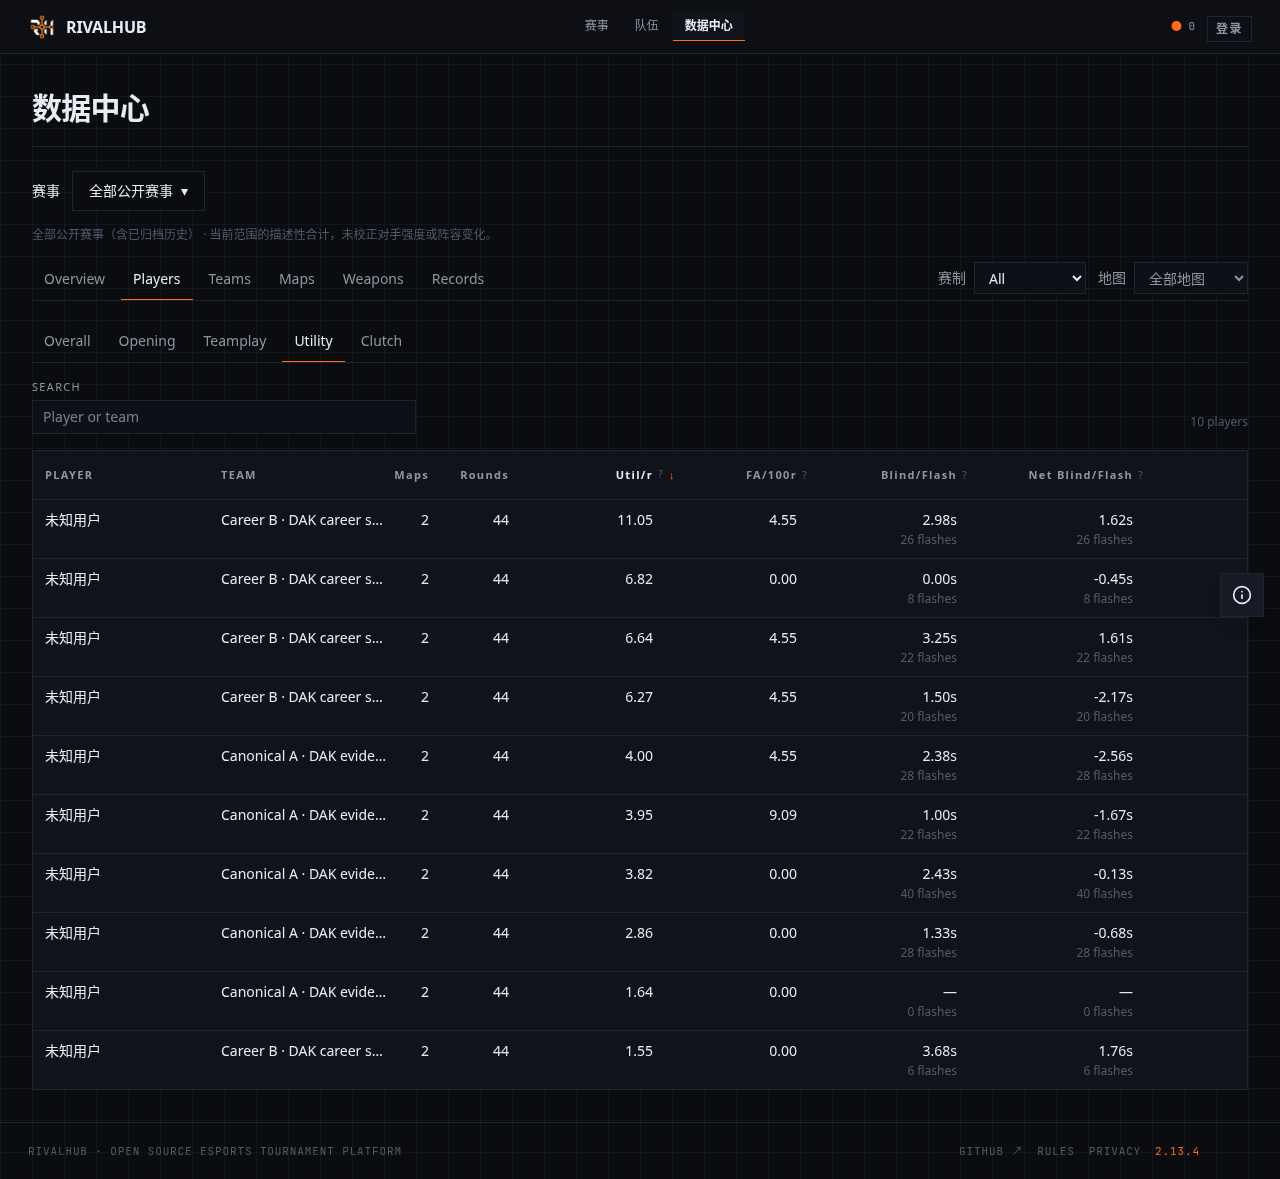
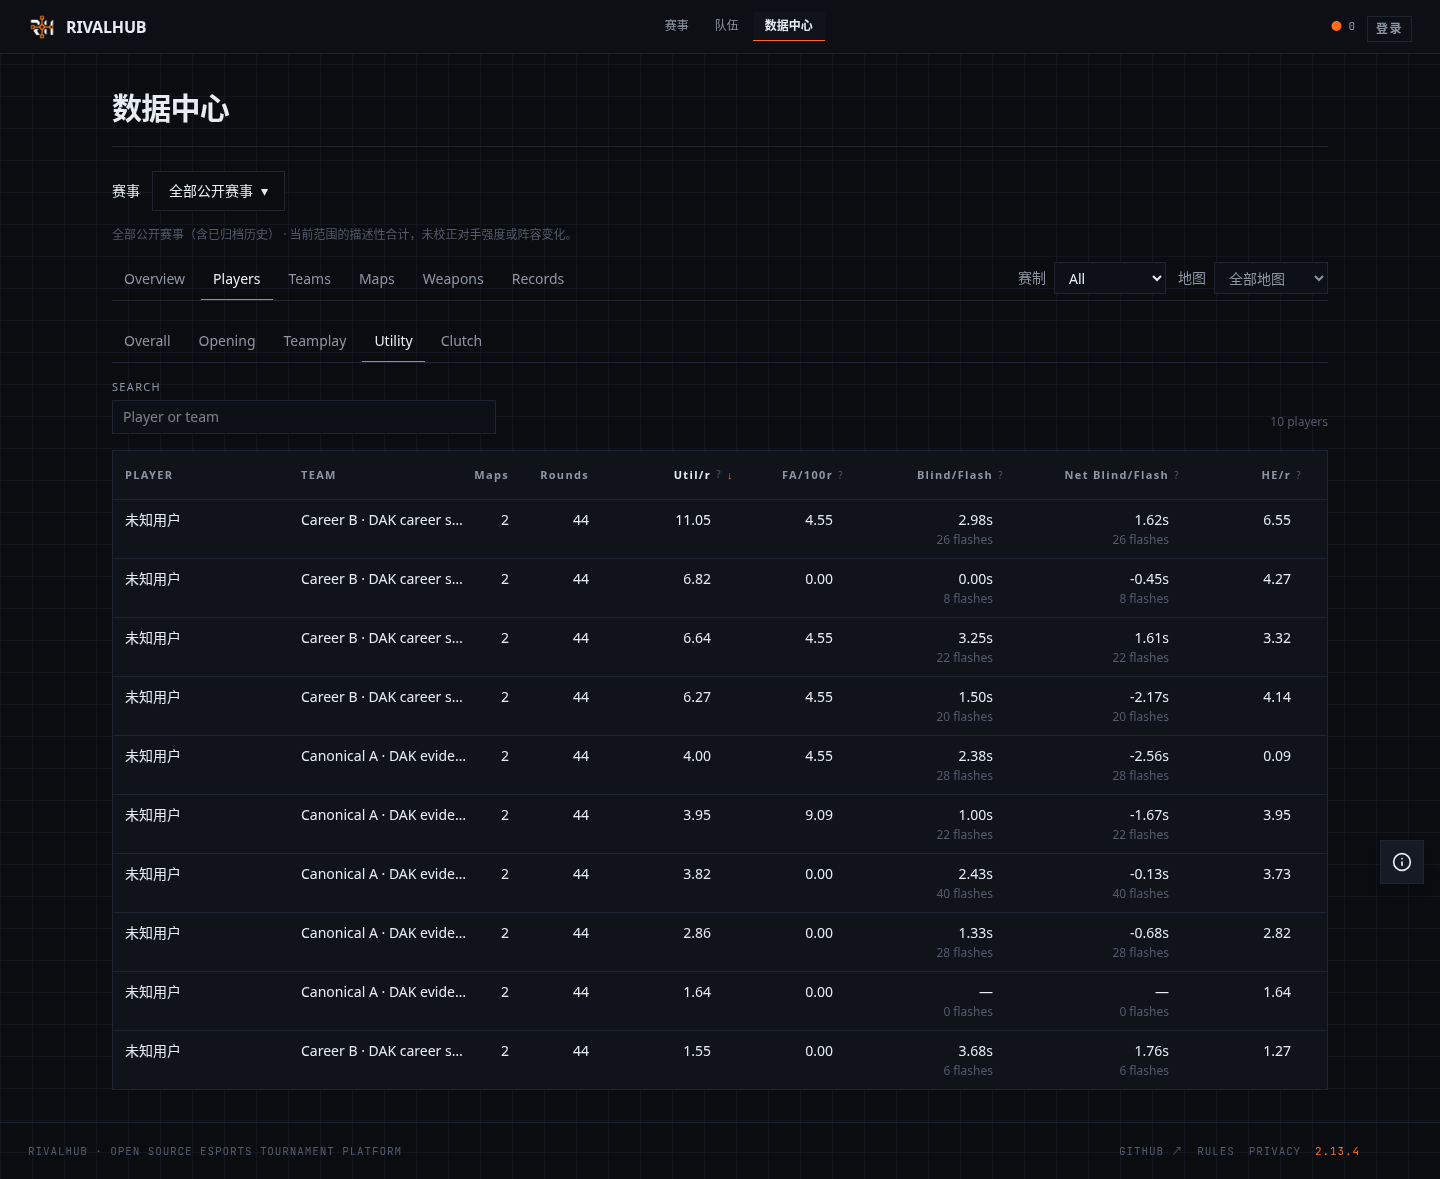
fix(stats): preserve scope transitions and observable insight precision

diff --git a/src/components/stats/players/PlayersExplorer.tsx b/src/components/stats/players/PlayersExplorer.tsx
@@ -50,8 +50,8 @@ function DAKColumns(family: Exclude<Family, "overall">, teamNames: ReadonlyMap<s
   };
   const identity: StatsDataColumn<DAKPlayer>[] = [
     { key: "player", label: "Player", identity: true, render: (row) => playerLink(row.player.entityKey, row.player.displayName) },
-    { key: "team", label: "Team", className: "hidden w-48 sm:table-cell", render: (row) => <span className="block truncate" title={playerTeam(row, teamNames)}>{playerTeam(row, teamNames)}</span> },
-    { key: "maps", label: "Maps", numeric: true, className: "hidden w-16 sm:table-cell", sortable: true, sortValue: (row) => row.mapCount, render: (row) => row.mapCount },
+    { key: "team", label: "Team", className: "hidden w-48 xl:table-cell", render: (row) => <span className="block truncate" title={playerTeam(row, teamNames)}>{playerTeam(row, teamNames)}</span> },
+    { key: "maps", label: "Maps", numeric: true, className: "hidden w-16 xl:table-cell", sortable: true, sortValue: (row) => row.mapCount, render: (row) => row.mapCount },
     { key: "rounds", label: "Rounds", numeric: true, className: "w-20", sortable: true, sortValue: rounds, render: rounds },
   ];
 
@@ -146,7 +146,7 @@ export function PlayersExplorer({ data, query, seasonSlug }: { data: TournamentS
         columns={DAKColumns(family, teamNames)}
         rowKey={(row, index) => `${row.player.entityKey}:detail:${index}`}
         initialSortKey={family === "opening" ? "win" : family === "teamplay" ? "kast" : family === "utility" ? "util" : "clutch"}
-        tableClassName="min-w-[1280px] table-fixed"
+        tableClassName="min-w-[960px] table-fixed"
         emptyLabel="该范围暂无详细统计"
       />
     );

diff --git a/src/components/stats/StatsEventSelector.test.tsx b/src/components/stats/StatsEventSelector.test.tsx
@@ -1,0 +1,24 @@
+import React from "react";
+import { render, screen } from "@testing-library/react";
+import userEvent from "@testing-library/user-event";
+import { expect, it, vi } from "vitest";
+import { parseStatsQuery } from "@/lib/stats/view-state";
+import { StatsEventSelector } from "./StatsEventSelector";
+const router = vi.hoisted(() => ({ push: vi.fn() }));
+vi.mock("next/navigation", () => ({ useRouter: () => router }));
+const events = [{ slug: "first", name: "第一届", status: "playing", maps: ["de_ancient"] },
+  { slug: "next", name: "下一届", status: "archived", maps: ["de_ancient"] }];
+it("clears map detail and stage but preserves its compatible map scope on event change", async () => {
+  const user = userEvent.setup();
+  render(<StatsEventSelector events={events} value="first" query={parseStatsQuery({ tab: "maps", map: "de_ancient", stage: "swiss", format: "bo3" }, ["swiss"])} />);
+  await user.click(screen.getByRole("button", { name: "选择赛事" }));
+  await user.click(await screen.findByRole("option", { name: /下一届/ }));
+  expect(router.push).toHaveBeenLastCalledWith("/stats?tab=maps&format=bo3&mapFilter=de_ancient&event=next");
+});
+it("resets bounded tie pagination when changing event", async () => {
+  const user = userEvent.setup();
+  render(<StatsEventSelector events={events} value="first" query={{ ...parseStatsQuery({ tab: "records" }, []), recordPage: 3 }} />);
+  await user.click(screen.getByRole("button", { name: "选择赛事" }));
+  await user.click(await screen.findByRole("option", { name: /下一届/ }));
+  expect(router.push).toHaveBeenLastCalledWith("/stats?tab=records&event=next");
+});

diff --git a/src/components/stats/StatsEventSelector.tsx b/src/components/stats/StatsEventSelector.tsx
@@ -3,10 +3,12 @@ import React from "react";
 import { EventSelector, type EventOption } from "@/components/layout/EventSelector";
 import { statsHref, type StatsQuery } from "@/lib/stats/view-state";
 export function StatsEventSelector({ events, value, query }: { events: EventOption[]; value: string; query: StatsQuery }) {
-  const clean = { ...query, stage: "", teamFilter: "", mapFilter: "", map: "", player: "", team: "", mapsView: "pool" as const };
+  const clean = { ...query, stage: "", teamFilter: "", mapFilter: "", map: "", player: "", team: "", mapsView: "pool" as const, recordPage: 1 };
+  const mapScope = query.map || query.mapFilter;
   const forEvent = (slug: string) => {
+    if (slug === value) return statsHref(slug, query);
     const maps = slug ? events.find((e) => e.slug === slug)?.maps ?? [] : events.flatMap((e) => e.maps ?? []);
-    return statsHref(slug, { ...clean, mapFilter: maps.includes(query.mapFilter) ? query.mapFilter : "" });
+    return statsHref(slug, { ...clean, mapFilter: maps.includes(mapScope) ? mapScope : "" });
   };
   return <EventSelector events={events} value={value} allHref={forEvent("")} hrefFor={forEvent} />;
 }

diff --git a/src/lib/stats/platform-query.ts b/src/lib/stats/platform-query.ts
@@ -46,7 +46,7 @@ export async function getPlatformStatsPage(raw: StatsSearch) {
   if ((raw.map && !/^de_[a-z0-9_]+$/.test(raw.map as string)) || (raw.map && query.tab !== "maps")
     || (query.map && !allowedMaps.includes(query.map)) || (query.mapFilter && !allowedMaps.includes(query.mapFilter))
     || (query.map && query.mapFilter && query.map !== query.mapFilter)) throw new AppError(ErrorCode.NOT_FOUND, "地图范围不可用。");
-  if (raw.teamFilter && (query.tab === "players" || query.tab === "weapons") && !query.teamFilter) throw new AppError(ErrorCode.NOT_FOUND, "统计范围不可用。");
+  if (raw.teamFilter && (!query.teamFilter || (query.tab !== "players" && query.tab !== "weapons"))) throw new AppError(ErrorCode.NOT_FOUND, "统计范围不可用。");
   if (query.teamFilter) {
     const [entry] = await db.select({ id: competitionEntries.id }).from(competitionEntries).where(and(
       eq(competitionEntries.id, query.teamFilter), eq(competitionEntries.competitionId, event!.id), eq(competitionEntries.registrationStatus, "approved"),

diff --git a/src/lib/stats/insights.test.ts b/src/lib/stats/insights.test.ts
@@ -80,6 +80,17 @@ describe("Insight rules v1", () => {
     rows[0]!.flashMaps = ["a", "b"].map((mapKey) => ({ mapKey, enemy: 5000, friendly: 2500, flashes: 50 }));
     expect(buildInsights(rows, "all")).toEqual([]);
   });
+  it("suppresses continuous differences that disappear at canonical display precision", () => {
+    const rows = flashPopulation();
+    rows.forEach((row, i) => {
+      const seconds = (3 + i * 1e-8) * 100;
+      row.metrics.blindPerFlash = amount(seconds);
+      row.metrics.netBlindPerFlash = amount(seconds);
+      row.metrics.friendlyBlindPerFlash = amount(0);
+      row.flashMaps = ["a", "b"].map((mapKey) => ({ mapKey, enemy: seconds / 2, friendly: 0, flashes: 50 }));
+    });
+    expect(buildInsights(rows, "all")).toEqual([]);
+  });
   it("deduplicates opening family, caps entities, and round-robins families deterministically", () => {
     const teams = population("team", "fourVFive", "fiveVFour");
     const players = population("player", "winAfterOpeningLoss", "openingDeathTradedRate");

diff --git a/src/lib/stats/insights.ts b/src/lib/stats/insights.ts
@@ -92,6 +92,9 @@ export function buildInsights(entities: readonly InsightEntity[], scope: string)
       if (!maps || maps.length < 2 || new Set(maps.map((m) => m.mapKey)).size !== maps.length) continue;
       if (maps.reduce((s, m) => s + m.flashes, 0) !== enemy.n) continue;
       const baselineE = baselines.get("blindPerFlash")!, baselineT = baselines.get("friendlyBlindPerFlash")!;
+      const baselineNet = baselines.get("netBlindPerFlash")!;
+      if (displayed(enemy.value!, enemy.metric, enemy.kind) <= displayed(baselineE.median, enemy.metric, enemy.kind)
+        || displayed(net.value!, net.metric, net.kind) <= displayed(baselineNet.median, net.metric, net.kind)) continue;
       const stable = maps.every((map) => {
         const f = enemy.n - map.flashes, e = enemy.x - map.enemy, t = friendly.x - map.friendly;
         return f > 0 && f >= baselineE.floor && e - t > 0 && e / f >= baselineE.median && t / f <= baselineT.median;

diff --git a/src/lib/stats/view-state.ts b/src/lib/stats/view-state.ts
@@ -59,7 +59,7 @@ export function statsHref(slug: string, current: StatsQuery, updates: StatsQuery
   const nextTab = updates.tab && Object.hasOwn(STATS_TABS, updates.tab) ? updates.tab : current.tab;
   let next: StatsQuery = nextTab === current.tab
     ? { ...current }
-    : { tab: nextTab, stage: current.stage, format: current.format, mapFilter: current.mapFilter, teamFilter: "", player: "", team: "", map: "", mapsView: "pool", preview: current.preview };
+    : { tab: nextTab, stage: current.stage, format: current.format, mapFilter: current.map || current.mapFilter, teamFilter: "", player: "", team: "", map: "", mapsView: "pool", preview: current.preview };
 
   if (Object.hasOwn(updates, "stage") && updates.stage !== current.stage) {
     next = { tab: nextTab, stage: updates.stage ?? "", format: current.format, mapFilter: "", teamFilter: "", player: "", team: "", map: "", mapsView: "pool" };

diff --git a/tests/e2e/flows/platform-stats.spec.ts b/tests/e2e/flows/platform-stats.spec.ts
@@ -20,6 +20,11 @@ test("数据中心统一入口、赛事选择、六视图和旧入口迁移", as
   await tabs.getByRole("link", { name: "Records", exact: true }).click();
   await expect(page.getByRole("heading", { name: "当前范围纪录" })).toBeVisible();
   await expect(page.getByText("暂无满足所需完整数据的纪录")).toHaveCount(6);
+  await page.goBack();
+  await expect(page).toHaveURL(`/stats?event=${scenario.slug}`);
+  await expect(tabs.getByRole("link", { name: "Overview", exact: true })).toHaveAttribute("aria-current", "page");
+  await page.goForward();
+  await expect(page.getByRole("heading", { name: "当前范围纪录" })).toBeVisible();
   await page.goto(`/${scenario.slug}/stats?tab=players&format=bo3`);
   await expect(page).toHaveURL(`/stats?tab=players&format=bo3&event=${scenario.slug}`);
   await expect(page.getByLabel("赛制")).toHaveValue("bo3");

diff --git a/tests/unit/lib/platform-stats-query.test.ts b/tests/unit/lib/platform-stats-query.test.ts
@@ -34,7 +34,7 @@ describe("platform scope and cache boundary", () => {
     expect(mocks.stats).toHaveBeenLastCalledWith(expect.objectContaining({ seasonIds: ["a"] }));
   });
   it.each([{ event: "draft" }, { event: ["current", "historic"] }, { stage: "swiss" }, { format: "bo7" },
-    { map: "garbage" }, { tab: "players", map: "de_oldmap" }, { mapFilter: "de_unknown" },
+    { event: "current", tab: "overview", teamFilter: "unknown-entry" }, { map: "garbage" }, { tab: "players", map: "de_oldmap" }, { mapFilter: "de_unknown" },
     { tab: "maps", map: "de_oldmap", mapFilter: "de_nuke" }])("rejects invalid scope instead of broadening %j", async (query) => {
     mocks.rows = [events, [{ name: "de_oldmap", seasonId: "b" }]];
     await expect(getPlatformStatsPage(query)).rejects.toMatchObject({ code: "NOT_FOUND" });

diff --git a/src/lib/stats/view-state.test.ts b/src/lib/stats/view-state.test.ts
@@ -65,3 +65,8 @@ describe("stats URL scope", () => {
     expect(href).toContain("mapFilter=de_ancient");
   });
 });
+
+ it("preserves a map detail scope visibly as mapFilter when switching tabs", () => {
+   const query = parseStatsQuery({ tab: "maps", map: "de_ancient" }, []);
+   expect(statsHref("major", query, { tab: "players" })).toBe("/stats?tab=players&mapFilter=de_ancient&event=major");
+ });

diff --git a/docs/archive/evidence/platform-stats-729/README.md b/docs/archive/evidence/platform-stats-729/README.md
@@ -40,7 +40,7 @@ fresh public IDs 在 remote cache 外读取并进入 key；共享 `PUBLIC_STATS_
 | advantage_disadvantage_inversion | 4v5 High；5v4=10/100，Ready且低分位；P差≥.35 | 次项2次机会/不同 coverage 抑制；命中后替代 simple 4v5 |
 | opening_death_resilience | 90/100；真实 sanitized fixture 为6/6，N=8、P=.9375、peer≈.1053 | 首死 n=0、低资格或显示精度不可区分抑制；文案说明队伍赢回合 |
 | opening_death_traded | 90/100；与 Win after FD 同族 | 同实体同族只保留1条，按P、L-peer、n、稳定 key 排序 |
-| flash_effectiveness | 2张有 F 的贡献图；E/F和Net/F高、T/F低；每图删除均稳定 | 单图、599/1尖峰、未知T、高队友致盲、删除后不达原floor/中位数抑制；全体T=0可用精确0分支 |
+| flash_effectiveness | 2张有 F 的贡献图；E/F和Net/F高、T/F低；每图删除均稳定 | 单图、599/1尖峰、未知T、高队友致盲、删除后不达原floor/中位数抑制；全体T=0可用精确0分支；E/Net与中位数在显示精度下不可区分时抑制 |
 | pistol_conversion_contrast | pistol90/100 High、conversion10/100 Ready且P差≥.35 | 次项缺资格/窄样本/不同覆盖抑制；保留独立分母 |
 | second_round_recovery | break90/100 High、pistol10/100 Ready且P差≥.35 | 回击机会缺失/低样本抑制；不声称故意输手枪有利 |
 
@@ -48,9 +48,9 @@ fresh public IDs 在 remote cache 外读取并进入 key；共享 `PUBLIC_STATS_
 
 ## 验证与性能
 
-定向统计、组件、profile 回归 33 文件 / 134 tests；后续长文本/合并选手筛选组件回归通过。应用、tests、scripts 类型及改动文件 lint、architecture 均通过。真实 PostgreSQL 17 回归通过，校验两届10个 canonical user、同名不合并、显式 teamId 合并、archived纳入/draft排除、DAK聚合一致性、新投影与repair/coverage、无 raw payload 读取。浮点累计比较保留12位有效数，避免不同SQL地图顺序的最后二进制位噪声。
+定向统计、组件、profile 回归 33 文件 / 134 tests；后续长文本/合并选手筛选组件回归通过；最终scope/显示精度/选择器增量回归5文件36项通过。应用、tests、scripts 类型及改动文件 lint、architecture 均通过。真实 PostgreSQL 17 回归通过，校验两届10个 canonical user、同名不合并、显式 teamId 合并、archived纳入/draft排除、DAK聚合一致性、新投影与repair/coverage、无 raw payload 读取。浮点累计比较保留12位有效数，避免不同SQL地图顺序的最后二进制位噪声。
 
-浏览器回归使用真实 Local Supabase，Chromium 和 mobile-chrome 均通过，重试为0：六视图、旧入口永久迁移的实际客户端导航、无循环、键盘选择、Escape焦点返回、未知范围不可用与320/390/1440px无页面横向溢出。另在 `next build` / `next start` 的本地生产模式检查含数据的两列、六类 Records、Overview及展开解释、0/2/20/100赛事与长名称。截图的数据是仓库 sanitized normal-map fixture 的隔离合成身份绑定，不是今日真实比赛或生产 holder；100赛事测试中98届是无比赛的列表负载样本。
+浏览器回归使用真实 Local Supabase，Chromium 和 mobile-chrome 均通过，重试为0：六视图、旧入口永久迁移的实际客户端导航、无循环、键盘选择、Escape焦点返回、未知范围不可用与320/390/1440px无页面横向溢出。追加地图详情→标签/换赛事范围保持、纪录分页重置及浏览器前进后退回归。1024px两列未增加表格横向滚动（960px表格内容与容器同宽），次要身份列沿用断点隐藏。另在 `next build` / `next start` 的本地生产模式检查含数据的两列、六类 Records、Overview及展开解释、0/2/20/100赛事与长名称。截图的数据是仓库 sanitized normal-map fixture 的隔离合成身份绑定，不是今日真实比赛或生产 holder；100赛事测试中98届是无比赛的列表负载样本。
 
 | 隔离两届 / 两图 / 十用户 | 逐届现有查询组合 baseline | 平台批量聚合 |
 | --- | ---: | ---: |
@@ -62,7 +62,18 @@ fresh public IDs 在 remote cache 外读取并进入 key；共享 `PUBLIC_STATS_
 
 baseline 是**同一fixture的逐届查询组合**，不是虚构一个旧版全站 API，也不是完整生产before/after。计数不随用户逐个增长；不据此推断大历史规模。真实托管查询计费、跨实例 remote-cache hit/miss、容量上限及失效流量未验收。
 
-[本地生产模式 HTTP 数据](local-http.json)：新进程、100公开赛事（98为空）、2图，Overview冷请求572.07ms /重复61.01ms；Players共享aggregate后47.50ms /重复43.08ms；Records35.88ms /40.02ms。HTML/RSC合并响应分别约233/337/145KB；没有把HTML bytes混作DTO或投影wire bytes。Node默认cache行为不等于托管remote-cache命中率。
+[本地生产模式 HTTP 数据](local-http.json)：新进程、100公开赛事（98为空）、2图。临时本地计数器覆盖 pg Client 的事务查询，仅记录计数和结果JSON估算字节，不记录SQL/参数/内容；未加入产品代码。包含Header/PPR与fresh membership查询。
+
+| HTTP视图 / 请求 | 查询数 | DB结果JSON估算bytes | HTML/RSC合并bytes | 耗时 |
+| --- | ---: | ---: | ---: | ---: |
+| Overview 冷进程 | 23 | 156829 | 233335 | 527.50ms |
+| Overview 重复 | 6 | 46245 | 233249 | 53.34ms |
+| Players 共享聚合已请求 / 重复 | 4 / 4 | 30830 / 30830 | 336603 / 336603 | 52.59 / 52.48ms |
+| Records 共享聚合已请求 / 重复 | 4 / 3 | 30830 / 30724 | 144619 / 144576 | 47.61 / 31.28ms |
+
+没有把HTML bytes混作DTO或投影wire bytes。DB结果JSON是本地估算，不是wire/计费量；Node默认cache行为不等于托管remote-cache命中率。
+
+最终浏览器复跑前，视觉样本的Steam ID与E2E固定ID碰撞，建数阶段中止；清除隔离样本的Steam占用后，两浏览器重试0复跑通过。
 
 本地 Supabase slim image 的健康检查曾因回环 wget 走代理而失败；Auth `/health` 实际可用。浏览器使用其真实端点；数据库证据另用独立回环PG17。该环境差异不作为生产服务健康的证据。
 
